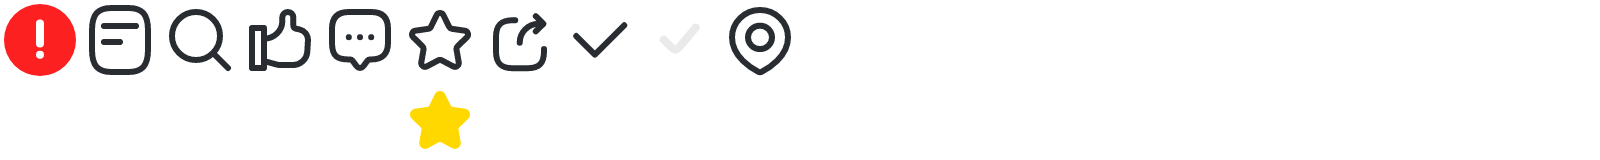
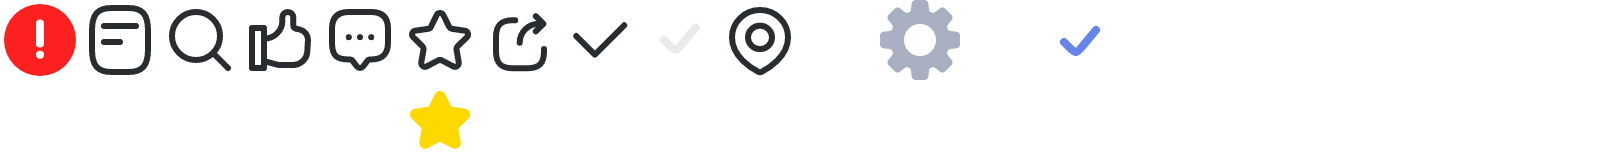
UI-SJN-80-003L 등록

Changed region(s): [[0.5312, 0.0, 0.625, 0.5], [0.6562, 0.1562, 0.6875, 0.3438]]

diff --git a/html/home/UI-SJN-80-003L.html b/html/home/UI-SJN-80-003L.html
@@ -1,0 +1,230 @@
+<!DOCTYPE HTML>
+<html lang="ko">
+<head>
+	<meta charset="utf-8" />
+	<script src="../include/head.js"></script>
+</head>
+
+<body>
+<div id="root">
+	<div class="container">
+		<!-- 공통: 서브 헤더 -->
+		<script src="../include/header_sub.js"></script>
+		<!-- //공통: 서브 헤더 -->
+
+		<!-- 본문 -->
+		<main class="contents mypage"> <!-- [내정보 Class] mypage-->
+			<h2 class="visible"><div class="headerClone">잠금설정</div></h2> <!-- [헤더에 넣어줄 제목] -->
+			
+			<div class="mypageWrap">
+				<div class="mypageArea">
+					<div class="section">
+						<div class="heading headA">
+							<h3>내 계정 정보</h3>
+							<div class="setting">
+								<button type="button"><span>알림설정</span></button>
+							</div>
+						</div>
+						<div class="box">
+							<p>이세종</p>
+							<p>연결(ID) Smartsejoing</p>
+						</div>
+					</div>
+
+					<div class="section">
+						<div class="heading headB">
+							<h3>자동 로그인</h3>
+							<div class="switch">
+								<input type="checkbox" id="switch0" title="자동 로그인">
+								<label for="switch0"></label>
+							</div>
+						</div>
+						<div class="pragraph">
+							<p>신속하게 다양한 서비스를 이용할 수 있습니다.</p>
+						</div>
+					</div>
+
+					<div class="section">
+						<div class="heading headC">
+							<h3>간편 로그인 설정</h3>
+						</div>
+						<ul class="securityList">
+							<li>
+								<input type="radio" id="list0" name="redio" />
+								<label for="list0" onclick="layerPopup.open('layerNumber');">
+									<i class="ico icoA"></i>
+									<span>간편비밀번호</span>
+								</label>
+							</li>
+							<li>
+								<input type="radio" id="list1" name="redio" />
+								<label for="list1" onclick="layerPopup.open('layerPattern');">
+									<i class="ico icoB"></i>
+									<span>패턴</span>
+								</label>
+							</li>
+							<li>
+								<input type="radio" id="list2" name="redio" />
+								<label for="list2" onclick="layerPopup.open('layerFingerprint');">
+									<i class="ico icoC"></i>
+									<span>지문</span>
+								</label>
+							</li>
+						</ul>
+					</div>
+				</div>
+			</div>
+		</main>
+		<!-- //본문 -->
+
+
+		<!-- 레이어 -->
+		<!-- 간편번호 입력 -->
+		<div id="layerNumber" class="layerPopup">
+			<div class="layerWrap typeBot">
+				<div class="securityLayer">
+					<h4 class="head">간편번호를 입력하세요</h4>
+					<div>
+						<div class="password">
+							<input type="password" value="1" class="active" /> <!-- 값이 있을경우 active 클래스 넣어주세요. -->
+							<input type="password" />
+							<input type="password" />
+							<input type="password" />
+						</div>
+						<ol class="number">
+							<li>
+								<button type="button">
+									<span class="n">1</span>
+									<span class="t"></span>
+								</button>
+							</li>
+							<li>
+								<button type="button">
+									<span class="n">2</span>
+									<span class="t">ABC</span>
+								</button>
+							</li>
+							<li>
+								<button type="button">
+									<span class="n">3</span>
+									<span class="t">DEF</span>
+								</button>
+							</li>
+							<li>
+								<button type="button">
+									<span class="n">4</span>
+									<span class="t">GHI</span>
+								</button>
+							</li>
+							<li>
+								<button type="button">
+									<span class="n">5</span>
+									<span class="t">JKL</span>
+								</button>
+							</li>
+							<li>
+								<button type="button">
+									<span class="n">6</span>
+									<span class="t">MNO</span>
+								</button>
+							</li>
+							<li>
+								<button type="button">
+									<span class="n">7</span>
+									<span class="t">PQRS</span>
+								</button>
+							</li>
+							<li>
+								<button type="button">
+									<span class="n">8</span>
+									<span class="t">TUV</span>
+								</button>
+							</li>
+							<li>
+								<button type="button">
+									<span class="n">9</span>
+									<span class="t">WXYZ</span>
+								</button>
+							</li>
+							<li>
+								<button type="button">
+									<span class="n">0</span>
+									<span class="t"></span>
+								</button>
+							</li>
+						</ol>
+					</div>
+				</div>
+				<button type="button" class="btnClose" onclick="layerPopup.close();">창닫기</button>
+			</div>
+		</div>
+		<!-- //간편번호 입력 -->
+
+		<!-- 패턴 입력 -->
+		<div id="layerPattern" class="layerPopup">
+			<div class="layerWrap typeBot">
+				<div class="securityLayer">
+					<h4 class="head">변경 패턴 입력</h4>
+					<div>
+						<div>
+							<ol class="pattern">
+								<li>
+									<button type="button" class="active">1</button>
+								</li>
+								<li>
+									<button type="button" class="active">2</button>
+								</li>
+								<li>
+									<button type="button" class="active">3</button>
+								</li>
+								<li>
+									<button type="button">4</button>
+								</li>
+								<li>
+									<button type="button">5</button>
+								</li>
+								<li>
+									<button type="button">6</button>
+								</li>
+								<li>
+									<button type="button">7</button>
+								</li>
+								<li>
+									<button type="button">8</button>
+								</li>
+								<li>
+									<button type="button">9</button>
+								</li>
+							</ol>
+						</div>
+						<div class="guide">
+							<p class="textext"><span>4개 이상의 점을 연결해 주세요</span></p>
+							<!-- <p class="textext complete"><span>패턴 등록이 완료 되었습니다</span></p> -->
+						</div>
+					</div>
+				</div>
+				<button type="button" class="btnClose" onclick="layerPopup.close();">창닫기</button>
+			</div>
+		</div>
+		<!-- //패턴 입력 -->
+
+		<!-- 지문 입력 -->
+		<div id="layerFingerprint" class="layerPopup">
+			<div class="layerWrap typeBot">
+				<div class="securityLayer">
+					<div class="fingerprint">
+						<i></i>
+					</div>
+					<div class="guide">
+						<p class="textext"><span>손가락을 지문 인식 센서에 올려주세요</span></p>
+					</div>
+				</div>
+				<button type="button" class="btnClose" onclick="layerPopup.close();">창닫기</button>
+			</div>
+		</div>
+		<!-- //지문 입력 -->
+		<!-- //레이어 -->
+	</div>
+</div>
+</body>
+</html>

diff --git a/public/styles/gbSin.css b/public/styles/gbSin.css
@@ -130,20 +130,33 @@
 /* 내정보
 **********************************************/
 
-/* 공통 */
-
-
-
-
-
-
-
-
-
-
-
-
-
+/* 잠금설정 - UI-SJN-80-003 */
+.mypage .mypageArea { padding: 0 2rem 4rem;}
+.mypage .mypageArea .section ~ .section { margin-top: 1.6rem;}
+.mypage .mypageArea .section .heading { display: flex; align-items: center; justify-content: space-between;}
+.mypage .mypageArea .section .heading.headA { height: 5.2rem;}
+.mypage .mypageArea .section .heading.headB,
+.mypage .mypageArea .section .heading.headC { height: 4.6rem;}
+.mypage .mypageArea .section .heading h3 { font-size: 1.6rem;}
+.mypage .mypageArea .section .heading .setting button { display: block;}
+.mypage .mypageArea .section .heading .setting button span { position: relative; display: block; padding-right: 3rem; font-size: 1.4rem;}
+.mypage .mypageArea .section .heading .setting button span::after { content: ''; position: absolute; right: 0.2rem; top: -0.1rem; width: 2rem; height: 2rem; background: url(../image/common/split_40.png) no-repeat -22rem 0/40rem 4rem;}
+.mypage .mypageArea .section .box { display: flex; flex-direction: column; margin-top: 0.8rem; padding: 1.4rem 2.4rem; border: 1px solid #EAEAEA;}
+.mypage .mypageArea .section .box p { font-size: 1.8rem; font-weight: 700; line-height: 2.6rem;}
+.mypage .mypageArea .section .pragraph p { font-size: 1.4rem; color: #555;}
+.mypage .mypageArea .section .securityList { display: flex;}
+.mypage .mypageArea .section .securityList li { flex: 1;}
+.mypage .mypageArea .section .securityList li label { display: block; overflow: hidden; position: relative; padding: 3.2rem 0 2rem; text-align: center; border: 1px solid #EAEAEA; cursor: pointer; transition: border-color .2s ease-in-out;}
+.mypage .mypageArea .section .securityList li label::after { content: ''; position: absolute; right: 0.8rem; top: 0.8rem; width: 2rem; height: 2rem; background: #EAEDF2 url(../image/common/split_40.png) no-repeat -24rem 0/40rem 4rem; border-radius: 50%; transition: background-color .2s ease-in-out;}
+.mypage .mypageArea .section .securityList li label i.ico { display: block; width: 6.3rem; height: 6rem; margin: 0 auto;}
+.mypage .mypageArea .section .securityList li label i.ico.icoA { background: url(../image/home/ico_security1.png) no-repeat center/cover;}
+.mypage .mypageArea .section .securityList li label i.ico.icoB { background: url(../image/home/ioc_security2.png) no-repeat center/cover;}
+.mypage .mypageArea .section .securityList li label i.ico.icoC { background: url(../image/home/ico_security3.png) no-repeat center/cover;}
+.mypage .mypageArea .section .securityList li label span { display: block; margin-top: 0.8rem; color: #555;}
+.mypage .mypageArea .section .securityList li input { position: absolute; opacity: 0;}
+.mypage .mypageArea .section .securityList li input:checked + label::after { background-color: #6684EA;}
+.mypage .mypageArea .section .securityList li input:checked + label { z-index: 1; border-color: #6684EA;}
+.mypage .mypageArea .section .securityList li ~ li label { margin-left: -0.1rem;}
 
 
 

diff --git a/public/styles/globals.css b/public/styles/globals.css
@@ -415,6 +415,32 @@ table td { vertical-align: middle;}
 .myInfoLayer .accordionBox >li.open .btn i { background-position-y: -2.4rem;}
 .myInfoLayer .accordionBox >li.open .btn p { font-weight: 700;}
 
+/* 잠금설정 - UI-SJN-80-003L */
+.securityLayer { padding: 6.4rem 2rem;}
+.securityLayer .head { display: flex; align-items: center; justify-content: center; height: 4.8rem; font-size: 1.9rem;}
+.securityLayer .password { display: flex; align-items: center; justify-content: center; height: 6.4rem; margin-top: 0.8rem;}
+.securityLayer .password input { height: 4.8rem; margin: 0 0.8rem; padding: 0; font-size: 3rem; text-align: center; border: none; border-bottom: 2px solid #CDD0D8;}
+.securityLayer .password input.active { border-color: #292D32;}
+.securityLayer .number { display: flex; align-items: center; justify-content: center; flex-wrap: wrap; margin-top: 2.4rem;}
+.securityLayer .number li { width: calc(100% / 3); margin-top: 1.6rem;}
+.securityLayer .number li:last-child { width: 100%;}
+.securityLayer .number li button { display: flex; align-items: center; justify-content: center; flex-direction: column; width: 7.2rem; height: 7.2rem; margin: 0 auto; background-color: #EAEDF2; border-radius: 50%;}
+.securityLayer .number li button .n { font-family: var(--fontRoboto); font-size: 3rem;}
+.securityLayer .number li button .t { font-family: var(--fontRoboto); font-size: 1.1rem;}
+.securityLayer .pattern { display: flex; align-items: center; justify-content: center; flex-wrap: wrap; width: 20.4rem; margin: 4.5rem auto 0;}
+.securityLayer .pattern li { width: calc(100% / 3);}
+.securityLayer .pattern li button { display: block; position: relative; width: 6.8rem; height: 6.8rem; text-indent: -9999rem;}
+.securityLayer .pattern li button::after { content: ''; position: absolute; left: 50%; top: 50%; width: 1.2rem; height: 1.2rem; margin: -0.6rem 0 0 -0.6rem; background-color: #292D32; border-radius: 50%;}
+.securityLayer .pattern li button.active::after { background-color: #6684EA;}
+.securityLayer .guide { display: flex; align-items: center; justify-content: center; height: 5.2rem; margin-top: 3rem;}
+.securityLayer .guide .complete span { display: inline-block; position: relative; padding-left: 2.4rem;}
+.securityLayer .guide .complete span::after { content: ''; position: absolute; left: 0; top: 0; width: 2rem; height: 2rem; background: url(../image/common/split_40.png) no-repeat -26rem 0/40rem }
+.securityLayer .fingerprint { margin-top: 2rem;}
+.securityLayer .fingerprint i { display: block; width: 6.025rem; height: 8.225rem; margin: 0 auto; background: url(../image/home/ico_security3_big.png) no-repeat center/cover;}
+
+
+
+
 
 
 

diff --git a/html/guide/ia.html b/html/guide/ia.html
@@ -735,23 +735,15 @@
 						<td></td>
 						<td><a href="../../html/home/UI-SJN-80-001U.html" class="active" target="_blank">UI-SJN-80-001U</a></td>
 						<td class="tac active">D</td>
-						<td class="tac"></td>
-					</tr>
-					<tr>
-						<td></td>
-						<td>프로필</td>
-						<td></td>
-						<td><a href="../../html/home/UI-SJN-80-002L.html" target="_blank">UI-SJN-80-002L</a></td>
-						<td class="tac active">D</td>
-						<td class="tac"></td>
+						<td class="tac active">L</td>
 					</tr>
 					<tr>
 						<td></td>
 						<td>잠금설정</td>
 						<td></td>
-						<td><a href="../../html/home/UI-SJN-80-003L.html" target="_blank">UI-SJN-80-003L</a></td>
+						<td><a href="../../html/home/UI-SJN-80-003L.html" class="active" target="_blank">UI-SJN-80-003L</a></td>
 						<td class="tac active">D</td>
-						<td class="tac"></td>
+						<td class="tac active">L</td>
 					</tr>
 					<tr>
 						<td></td>

diff --git a/README.md b/README.md
@@ -8,6 +8,7 @@
 - UI-SJN-06-001L 수정 - Page -> Layer로 변경
 - UI-SJN-14-001U 등록
 - UI-SJN-80-001U 등록
+- UI-SJN-80-003L 등록
 
 ### 01-14
 - UI-SJN-02-001U 등록/수정
